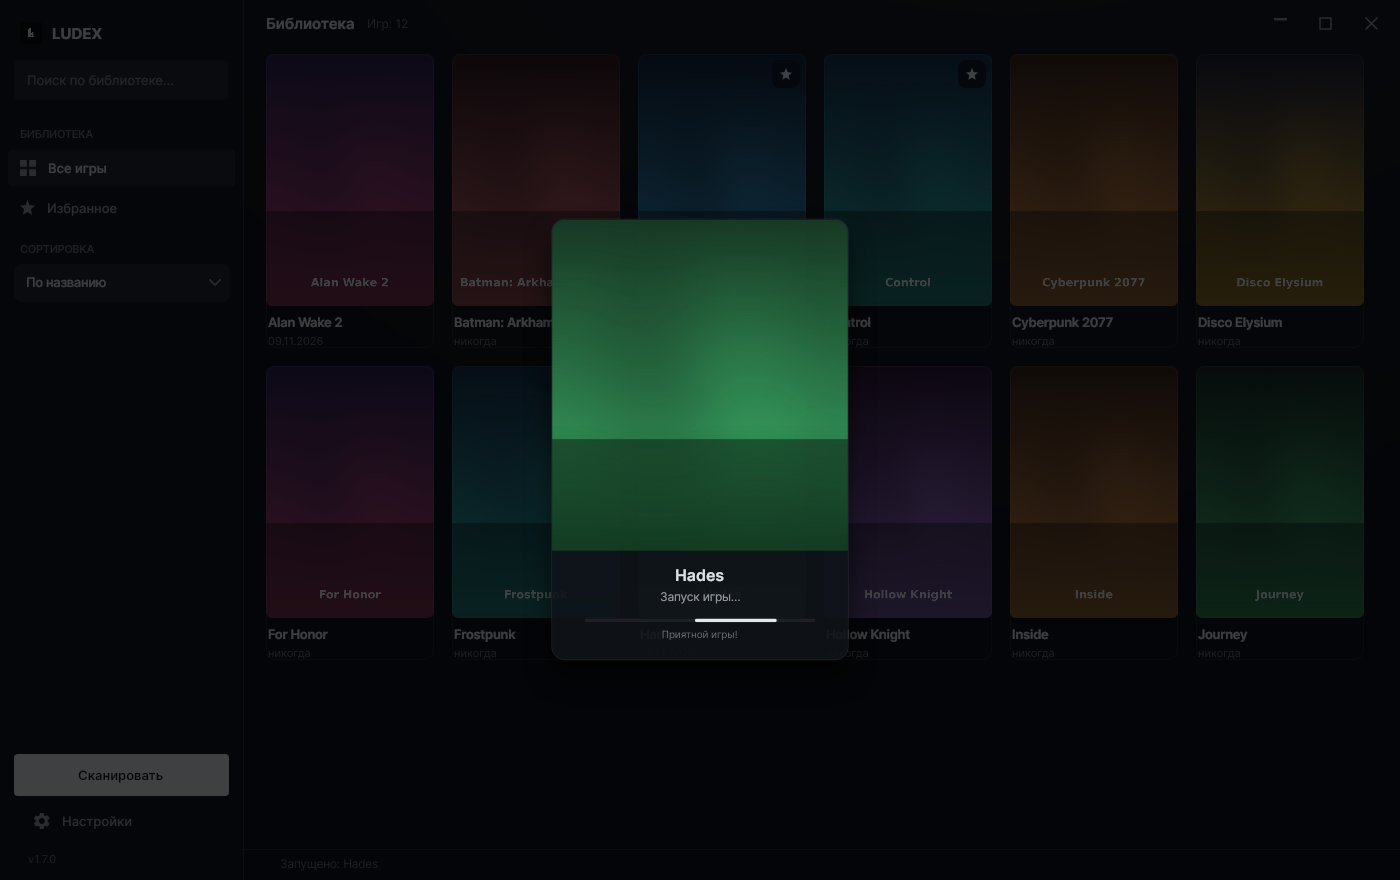
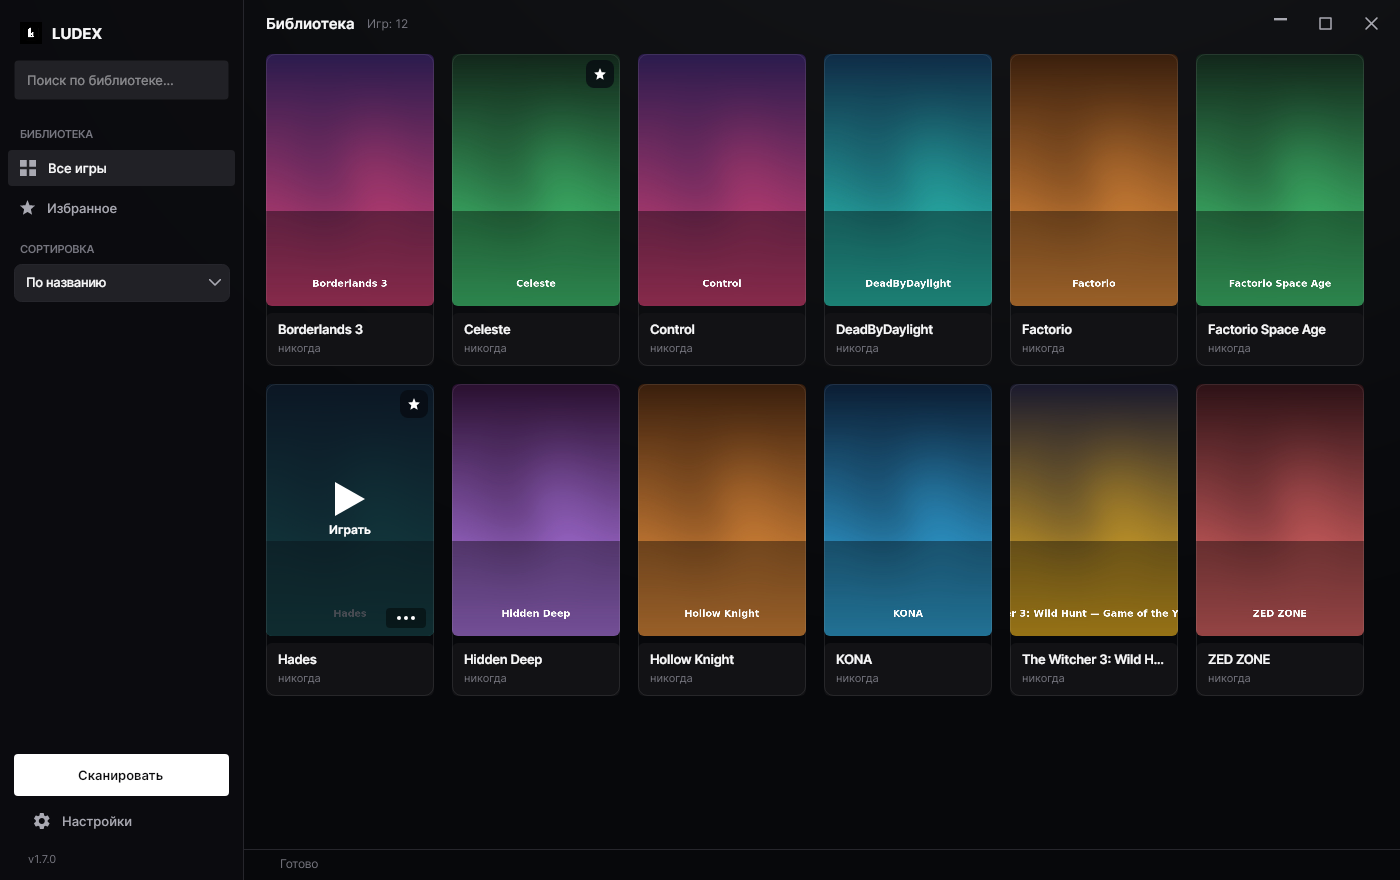
1.7.0: плашка под названием игры в цвет приложения, поля у подписи
- плашка под подписью непрозрачная и совпадает с фоном приложения (тёмная/светлая тема),
  обои сквозь неё больше не просвечивают
- поля 12 px слева и справа, длинные названия обрезаются многоточием внутри плашки
- скриншоты в README и на сайте пересняты

diff --git a/src/Ludex/UI/MainWindow.cs b/src/Ludex/UI/MainWindow.cs
@@ -804,19 +804,24 @@ public sealed class MainWindow : Window
         Ui.Tip(starButton, Loc.T("card.favorite"));
         coverGrid.Children.Add(starButton);
 
-        var textInner = new StackPanel { Margin = new Thickness(2, 9, 2, 0), Spacing = 3 };
+        // подпись живёт на плотной плашке цвета приложения — обои сквозь неё не просвечивают
+        const double platePad = 12;
+        var textInner = new StackPanel { Margin = new Thickness(platePad, 9, platePad, 11), Spacing = 3 };
         var title = Ui.T(game.Title, 12.5, Skin.Text, FontWeight.SemiBold);
-        title.MaxWidth = _cardWidth - 4;
+        title.MaxWidth = _cardWidth - platePad * 2;
+        title.TextTrimming = TextTrimming.CharacterEllipsis;
         var subtitle = Ui.T(Subtitle(game), 11, Skin.TextDim);
-        subtitle.MaxWidth = _cardWidth - 4;
+        subtitle.MaxWidth = _cardWidth - platePad * 2;
+        subtitle.TextTrimming = TextTrimming.CharacterEllipsis;
         textInner.Children.Add(title);
         textInner.Children.Add(subtitle);
 
-        // в стеклянном режиме плашка снизу — полупрозрачное стекло поверх обоев
         var textPanel = new Border
         {
-            Background = Brushes.Transparent,
+            Background = Skin.CardPlate,
+            CornerRadius = new CornerRadius(6),
             BorderThickness = new Thickness(0),
+            Margin = new Thickness(0, 7, 0, 0),
             Child = textInner,
         };
 

diff --git a/src/Ludex/UI/Skin.cs b/src/Ludex/UI/Skin.cs
@@ -26,6 +26,9 @@ public static class Skin
     public static IBrush CardHover = Brushes.Transparent;
     /// <summary>Плашка с названием под обложкой — в стеклянном режиме полупрозрачная.</summary>
     public static IBrush CardFooter = Brushes.Transparent;
+
+    /// <summary>Плашка под названием игры — непрозрачная, в цвет фона приложения.</summary>
+    public static IBrush CardPlate = Brushes.Transparent;
     public static IBrush CardFooterEdge = Brushes.Transparent;
     public static IBrush Accent = Brushes.Transparent;
     public static IBrush AccentHover = Brushes.Transparent;
@@ -144,6 +147,7 @@ public static class Skin
             CardFooterEdge = new SolidColorBrush(Transparent
                 ? Color.Parse("#B3FFFFFF")
                 : Color.Parse("#E7EDF4"));
+            CardPlate = new SolidColorBrush(Color.Parse("#FFFFFF"));
             GlassEdge = new SolidColorBrush(Color.Parse("#8CFFFFFF"));
             GlassSheen = new LinearGradientBrush
             {
@@ -215,6 +219,7 @@ public static class Skin
             CardFooterEdge = new SolidColorBrush(Transparent
                 ? Color.Parse("#26FFFFFF")
                 : Color.Parse("#1C2029"));
+            CardPlate = new SolidColorBrush(Color.Parse("#121215"));
             GlassSheen = new LinearGradientBrush
             {
                 StartPoint = new RelativePoint(0, 0, RelativeUnit.Relative),

diff --git a/CHANGELOG.md b/CHANGELOG.md
@@ -21,6 +21,12 @@
 - Кнопки и тумблеры корректно читаются при белом акценте (текст на акценте — тёмный),
   на светлой теме белый акцент автоматически притемняется.
 
+### Исправлено
+- Плашка под названием игры больше не полупрозрачная — она того же цвета, что и фон
+  приложения, поэтому обои сквозь неё не просвечивают.
+- Подпись на карточке получила поля по 12 px: текст не прилипает к краю плашки,
+  длинные названия аккуратно обрезаются многоточием.
+
 ## [1.6.0] — 2026-11-09
 
 Приложение обновляет само себя: спрашивает у GitHub последний релиз, скачивает нужный файл,
